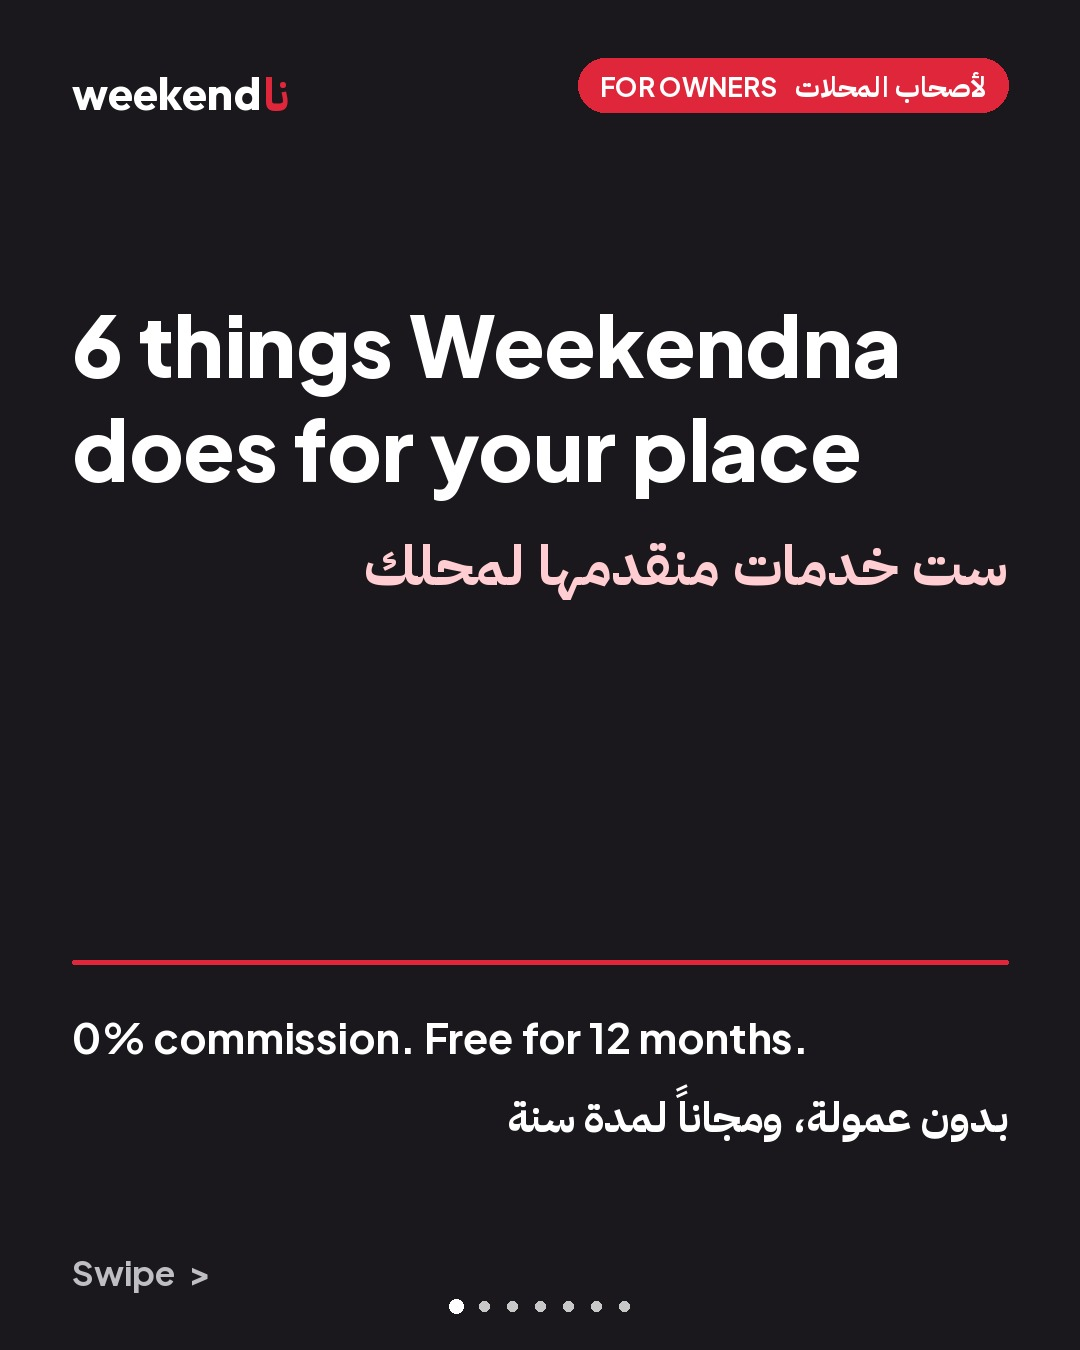
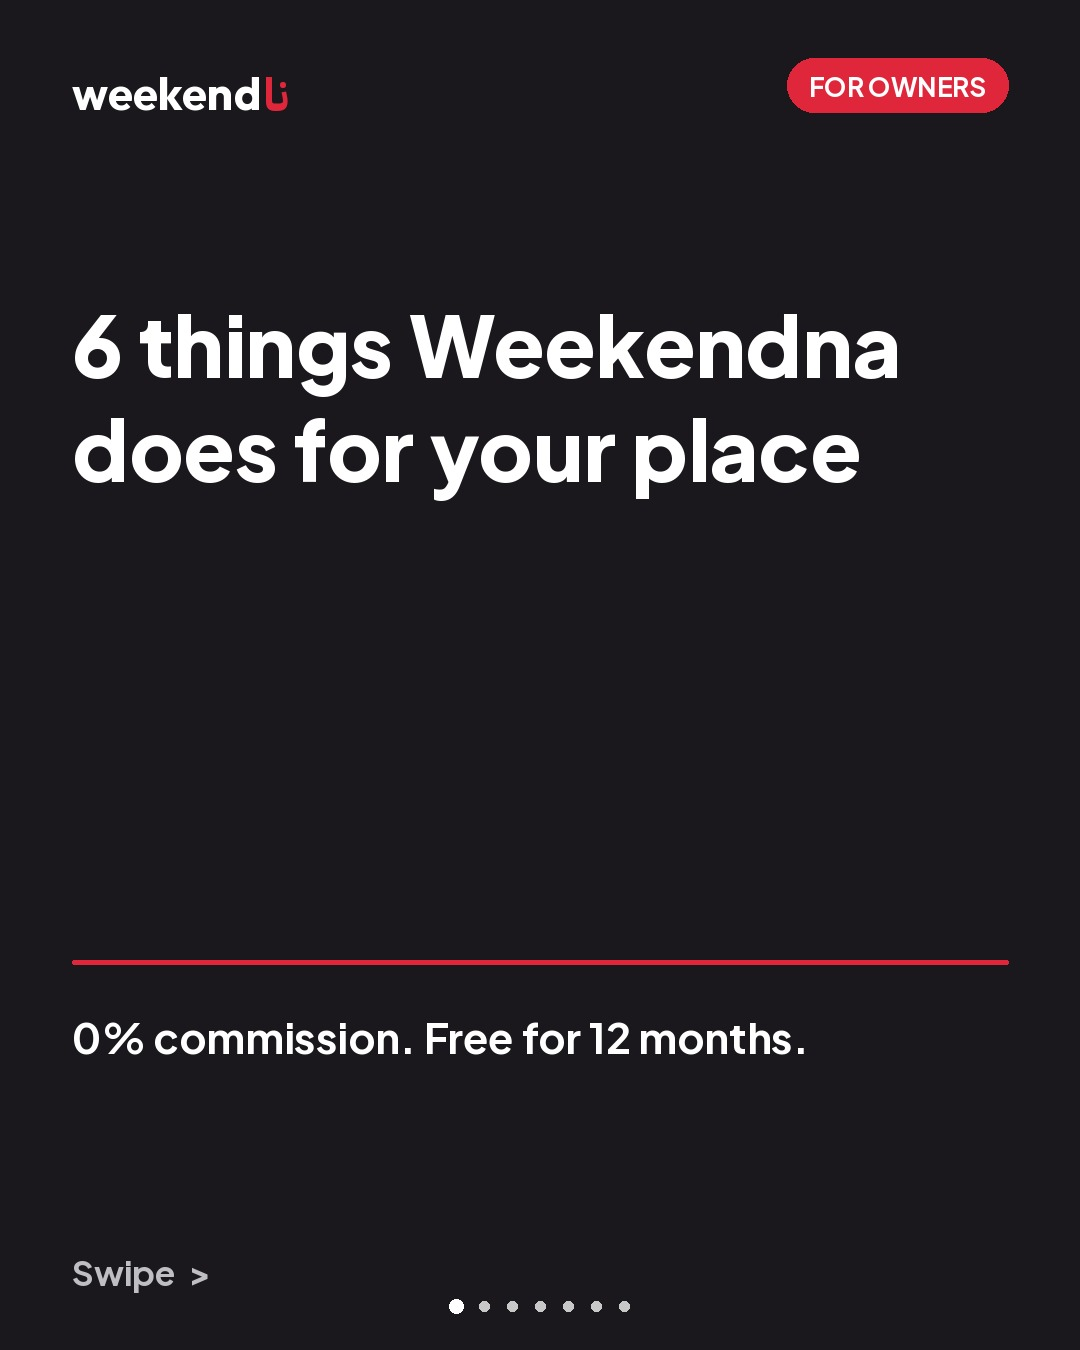
Owner report carousel; services carousel English only (not scheduled)
Claude-Session: https://claude.ai/code/session_01QuaNDiRe1Txgkiz29wZCBD

Changed region(s): [[0.5194, 0.0311, 0.9167, 0.0933], [0.3361, 0.4044, 0.9472, 0.4667], [0.4583, 0.8089, 0.9472, 0.84]]

diff --git a/tools/examples/make_owner_report_post.py b/tools/examples/make_owner_report_post.py
@@ -1,0 +1,204 @@
+"""Online presence report carousel for owners (English only). All figures are INVENTED and labelled SAMPLE: no real owner's data is shown.
+Writes posts/2026-11-owner-report/report-1..7.jpg (1080x1350), story.jpg (1080x1920), caption.txt.
+What the report covers (Kamel, 3 Nov 2026): price consistency across the web, Google reviews grouped by theme, website check, other online presence.
+Usage: source tools/setup.sh && python3 tools/examples/make_owner_report_post.py
+"""
+import os, sys
+sys.path.insert(0, os.path.dirname(os.path.dirname(__file__)))
+from brand import *
+
+POST = os.path.join(os.path.dirname(__file__), "..", "..", "posts", "2026-11-owner-report")
+os.makedirs(POST, exist_ok=True)
+DARK = (26, 24, 28); GREEN = (37, 160, 90); AMBER = (232, 150, 20); GREY = (130, 130, 135); LIGHT = (238, 238, 240)
+N = 7
+
+
+def wrap(d, text, font, maxw):
+    lines, cur = [], ""
+    for w in text.split():
+        t = (cur + " " + w).strip()
+        if d.textlength(t, font=font) <= maxw: cur = t
+        else: lines.append(cur); cur = w
+    if cur: lines.append(cur)
+    return lines
+
+
+def para(d, x, y, text, font, fill, maxw, lh):
+    for ln in wrap(d, text, font, maxw):
+        d.text((x, y), ln, font=font, fill=fill); y += lh
+    return y
+
+
+def save(img, n): img.save(os.path.join(POST, f"report-{n}.jpg"), quality=92)
+
+
+def base(bg, logo_color=WHITE, accent=None, tagbg=RED, tagfg=WHITE):
+    img = Image.new("RGB", (W, H), bg); d = ImageDraw.Draw(img)
+    logo(d, M, 64, color=logo_color, accent=accent)
+    f = jak(700, 26); t = "FOR OWNERS"; w1 = d.textlength(t, font=f); x0 = W - M - w1 - 44
+    d.rounded_rectangle((x0, 58, W - M, 112), radius=27, fill=tagbg); d.text((x0 + 22, 70), t, font=f, fill=tagfg)
+    return img, d
+
+
+def sample(d, y=430, x=M):
+    t = "SAMPLE · NOT A REAL PLACE"; f = jak(700, 20); w = d.textlength(t, font=f)
+    d.rounded_rectangle((x, y, x + w + 40, y + 44), radius=22, fill=INK); d.text((x + 20, y + 11), t, font=f, fill=WHITE)
+
+
+def chip(d, x, y, text, bg, fg=WHITE, f=None):
+    f = f or jak(800, 24); w = d.textlength(text, font=f)
+    d.rounded_rectangle((x, y, x + w + 36, y + 46), radius=23, fill=bg); d.text((x + 18, y + 10), text, font=f, fill=fg)
+    return x + w + 36
+
+
+def title(d, a, b, colb=RED, cola=INK, y=170):
+    d.text((M, y), a, font=jak(800, 72), fill=cola); d.text((M, y + 86), b, font=jak(800, 72), fill=colb)
+
+
+# ---------- 1. Hook ----------
+img, d = base(DARK)
+y = 260
+y = para(d, M, y, "Is your place easy to trust online?", jak(800, 90), WHITE, W - 2 * M, 112)
+y += 30
+y = para(d, M, y, "We check how guests see you across the web and send you a private report.", jak(500, 42), (210, 210, 215), W - 2 * M, 60)
+d.rounded_rectangle((M, 900, W - M, 904), radius=2, fill=RED)
+for i, t in enumerate(["Your prices, compared across the web", "Your Google reviews, grouped", "Your website, checked", "Your other online presence"]):
+    d.ellipse((M, 950 + i * 62 + 12, M + 18, 950 + i * 62 + 30), fill=RED)
+    d.text((M + 40, 950 + i * 62), t, font=jak(700, 36), fill=WHITE)
+d.text((M, H - 100), "Swipe  >", font=jak(700, 34), fill=(190, 190, 195))
+dots(d, N, 0); save(img, 1)
+
+# ---------- 2. Price consistency ----------
+img, d = base(SOFT, logo_color=INK)
+d.text((M, 150), "CHECK 1/4", font=jak(800, 34), fill=RED)
+title(d, "Are your prices", "the same everywhere?", y=205)
+sample(d, 400)
+d.rounded_rectangle((M, 470, W - M, 1000), radius=36, fill=WHITE)
+d.text((M + 40, 495), "Same dates, same room", font=jak(700, 30), fill=GREY)
+rows = [("Your website", "$120", GREEN, "Match"), ("Booking site A", "$120", GREEN, "Match"), ("Booking site B", "$135", AMBER, "Differs"), ("Travel site C", "Not listed", GREY, "Missing")]
+yy = 560
+for name, price, col, status in rows:
+    d.rounded_rectangle((M + 30, yy, W - M - 30, yy + 90), radius=24, fill=SOFT)
+    d.text((M + 60, yy + 26), name, font=jak(700, 32), fill=INK)
+    d.text((M + 480, yy + 26), price, font=jak(800, 32), fill=INK)
+    chip(d, W - M - 30 - 30 - d.textlength(status, font=jak(800, 24)) - 36, yy + 22, status, col)
+    yy += 108
+para(d, M, 1045, "We compare your prices on your website and the booking sites, and flag where they don't match. Guests lose trust when numbers differ.", jak(500, 34), INK, W - 2 * M, 48)
+dots(d, N, 1, color=RED); save(img, 2)
+
+# ---------- 3. Google reviews grouped ----------
+img, d = base(WHITE, logo_color=INK)
+d.text((M, 150), "CHECK 2/4", font=jak(800, 34), fill=RED)
+title(d, "Your Google reviews,", "grouped by theme", y=205)
+sample(d, 400)
+d.rounded_rectangle((M, 470, W - M, 1000), radius=36, fill=SOFT)
+d.text((M + 40, 495), "4.2", font=jak(800, 80), fill=INK)
+d.text((M + 230, 510), "Google rating", font=jak(700, 30), fill=INK)
+d.text((M + 230, 553), "example, 180 reviews", font=jak(500, 26), fill=GREY)
+themes = [("Cleanliness", 0.86, GREEN, "Praised"), ("View", 0.74, GREEN, "Praised"), ("Host and staff", 0.62, GREEN, "Praised"), ("Parking", 0.34, AMBER, "Mixed"), ("Wi-Fi", 0.22, RED, "Complaints")]
+yy = 640
+for name, frac, col, lab in themes:
+    d.text((M + 40, yy), name, font=jak(700, 28), fill=INK)
+    d.text((W - M - 40 - d.textlength(lab, font=jak(700, 26)), yy + 2), lab, font=jak(700, 26), fill=col)
+    d.rounded_rectangle((M + 40, yy + 42, W - M - 40, yy + 58), radius=8, fill=LIGHT)
+    d.rounded_rectangle((M + 40, yy + 42, M + 40 + (W - 2 * M - 80) * frac, yy + 58), radius=8, fill=col)
+    yy += 72
+para(d, M, 1045, "We read your Google reviews and group them: what guests love, and what keeps coming up as a problem.", jak(500, 34), INK, W - 2 * M, 48)
+dots(d, N, 2, color=RED); save(img, 3)
+
+# ---------- 4. Website check ----------
+img, d = base(DARK)
+d.text((M, 150), "CHECK 3/4", font=jak(800, 34), fill=RED)
+title(d, "Is your website", "bringing in bookings?", cola=WHITE, y=205)
+sample(d, 400, )
+d.rounded_rectangle((M, 470, W - M, 1000), radius=36, fill=(40, 38, 44))
+checks = [("Works well on a phone", True), ("Clear way to book or ask for dates", True), ("Prices shown", False), ("Contact details easy to find", True), ("Photos load fast", False)]
+yy = 510
+for t, ok in checks:
+    col = GREEN if ok else RED
+    d.ellipse((M + 40, yy, M + 40 + 56, yy + 56), fill=col)
+    if ok: d.line([(M + 40 + 15, yy + 29), (M + 40 + 25, yy + 40), (M + 40 + 42, yy + 18)], fill=WHITE, width=7, joint="curve")
+    else: d.text((M + 40 + 28 - d.textlength("!", font=jak(800, 32)) / 2, yy + 8), "!", font=jak(800, 32), fill=WHITE)
+    d.text((M + 120, yy + 8), t, font=jak(700, 32), fill=WHITE)
+    d.text((W - M - 40 - d.textlength("OK" if ok else "Fix", font=jak(800, 28)), yy + 10), "OK" if ok else "Fix", font=jak(800, 28), fill=col)
+    yy += 94
+para(d, M, 1045, "We look at your website the way a guest does, and list what to fix first.", jak(500, 36), WHITE, W - 2 * M, 52)
+dots(d, N, 3); save(img, 4)
+
+# ---------- 5. Other online presence ----------
+img, d = base(SOFT, logo_color=INK)
+d.text((M, 150), "CHECK 4/4", font=jak(800, 34), fill=RED)
+title(d, "Everywhere else", "guests find you", y=205)
+sample(d, 400)
+d.rounded_rectangle((M, 470, W - M, 1000), radius=36, fill=WHITE)
+places = [("Google Maps listing", "Complete", GREEN), ("Instagram", "Active", GREEN), ("Facebook page", "Out of date", AMBER), ("Booking sites", "2 found", GREEN), ("Travel and review sites", "Not found", GREY)]
+yy = 505
+for name, st, col in places:
+    d.text((M + 40, yy + 12), name, font=jak(700, 32), fill=INK)
+    chip(d, W - M - 40 - d.textlength(st, font=jak(800, 24)) - 36, yy + 6, st, col)
+    d.rounded_rectangle((M + 40, yy + 78, W - M - 40, yy + 80), radius=1, fill=LIGHT)
+    yy += 94
+para(d, M, 1045, "Maps, social pages, booking sites and review sites: we check that your name, photos, phone number and details are right and match.", jak(500, 34), INK, W - 2 * M, 48)
+dots(d, N, 4, color=RED); save(img, 5)
+
+# ---------- 6. What you get ----------
+img, d = base(WHITE, logo_color=INK)
+title(d, "What you get", "in your report", y=170)
+d.rounded_rectangle((M, 400, W - M, 920), radius=36, fill=SOFT)
+items = [("1", "A private page for your place only", RED), ("2", "What to fix first, in order", RED), ("3", "Clear findings, no guesses", RED)]
+yy = 440
+for n, t, col in items:
+    d.ellipse((M + 40, yy, M + 40 + 72, yy + 72), fill=col)
+    d.text((M + 40 + 36 - d.textlength(n, font=jak(800, 40)) / 2, yy + 12), n, font=jak(800, 40), fill=WHITE)
+    d.text((M + 140, yy + 16), t, font=jak(700, 34), fill=INK)
+    yy += 150
+para(d, M, 970, "A detailed monthly report is available if you want to keep track of your progress.", jak(500, 36), INK, W - 2 * M, 52)
+para(d, M, 1120, "The pages in this post are a sample with example figures. Your report uses your own place.", jak(500, 28), GREY, W - 2 * M, 40)
+dots(d, N, 5, color=RED); save(img, 6)
+
+# ---------- 7. CTA ----------
+img, d = base(RED, accent=INK, tagbg=WHITE, tagfg=RED)
+y = 260
+y = para(d, M, y, "Want to see how your place looks online?", jak(800, 84), WHITE, W - 2 * M, 104)
+y += 30
+y = para(d, M, y, "Message us and we'll prepare your report.", jak(600, 44), (255, 225, 228), W - 2 * M, 62)
+d.rounded_rectangle((M, 820, W - M, 1000), radius=36, fill=WHITE)
+d.text((M + 44, 850), "For owners on Weekendna", font=jak(800, 40), fill=INK)
+d.text((M + 44, 912), "0% commission, free for the first 12 months", font=jak(600, 30), fill=RED)
+button(d, 1120, "Message @weekendna.lb", bg=INK)
+dots(d, N, 6); save(img, 7)
+
+# ---------- Story ----------
+SW, SH = 1080, 1920
+img = Image.new("RGB", (SW, SH), RED); d = ImageDraw.Draw(img); logo(d, 72, 150, size=56, accent=INK)
+y = 560
+y = para(d, 72, y, "Is your place easy to trust online?", jak(800, 90), WHITE, SW - 144, 110)
+y += 30
+for t in ["Prices compared across the web", "Google reviews, grouped", "Website check", "Your other online presence"]:
+    d.text((72, y), "•  " + t, font=jak(700, 42), fill=WHITE); y += 66
+y += 20
+d.text((72, y), "Owners: message us for your report", font=jak(600, 36), fill=(255, 225, 228))
+d.rounded_rectangle((72, 1540, SW - 72, 1636), radius=48, fill=WHITE)
+t = "Message us"; f = jak(800, 40); d.text(((SW - d.textlength(t, font=f)) / 2, 1562), t, font=f, fill=RED)
+u = "@weekendna.lb"; fu = jak(600, 34); d.text(((SW - d.textlength(u, font=fu)) / 2, 1680), u, font=fu, fill=WHITE)
+img.save(os.path.join(POST, "story.jpg"), quality=92)
+
+cap = """Is your place easy to trust online? 🔍
+
+For owners on Weekendna, we check how guests see your place across the web and send you a private report:
+
+1⃣ Prices: compared across your website and booking sites, with mismatches flagged
+2⃣ Google reviews: grouped by theme, so you see what guests love and what keeps coming up
+3⃣ Your website: checked the way a guest uses it, with a list of what to fix first
+4⃣ Everything else: Google Maps, social pages, booking and review sites
+
+The pages in this post are a sample with example figures. A detailed monthly report is available too.
+
+💬 Want your report? Message @weekendna.lb.
+
+👉 Follow @weekendna.lb so you don't miss the next one 🏡
+
+#weekendna #lebanon #chaletowners #lebanonhospitality #guesthouse #villalebanon
+"""
+open(os.path.join(POST, "caption.txt"), "w").write(cap)
+print("ok")

diff --git a/tools/examples/make_owner_services.py b/tools/examples/make_owner_services.py
@@ -39,13 +39,11 @@ def para(d, x, y, text, font, fill, maxw, lh, rtl=False, xr=None):
 def save(img, n): img.save(os.path.join(POST, f"services-{n}.jpg"), quality=92)
 
 
-def tag(d, text_en, text_ar, bg=RED, fg=WHITE):
-    f = jak(700, 26); fa = ar(700, 28)
-    w1 = d.textlength(text_en, font=f); w2 = d.textlength(text_ar, font=fa, direction="rtl")
-    x0 = W - M - (w1 + 18 + w2) - 44
+def tag(d, text_en, text_ar=None, bg=RED, fg=WHITE):
+    f = jak(700, 26); w1 = d.textlength(text_en, font=f)
+    x0 = W - M - w1 - 44
     d.rounded_rectangle((x0, 58, W - M, 112), radius=27, fill=bg)
     d.text((x0 + 22, 70), text_en, font=f, fill=fg)
-    d.text((x0 + 22 + w1 + 18, 66), text_ar, font=fa, fill=fg, direction="rtl")
 
 
 def step(d, n, color=RED):
@@ -56,7 +54,7 @@ def step(d, n, color=RED):
 
 def base(bg, logo_color=WHITE, accent=None):
     img = Image.new("RGB", (W, H), bg); d = ImageDraw.Draw(img)
-    logo(d, M, 64, color=logo_color, accent=accent); tag(d, "FOR OWNERS", "لأصحاب المحلات")
+    logo(d, M, 64, color=logo_color, accent=accent); tag(d, "FOR OWNERS")
     return img, d
 
 
@@ -65,10 +63,8 @@ img, d = base(DARK)
 y = 290
 y = para(d, M, y, "6 things Weekendna does for your place", jak(800, 84), WHITE, W - 2 * M, 104)
 y += 26
-para(d, 0, y, "ست خدمات منقدمها لمحلك", ar(700, 56), (255, 205, 210), W - 2 * M, 84, rtl=True, xr=W - M)
 d.rounded_rectangle((M, 960, W - M, 964), radius=2, fill=RED)
 d.text((M, 1010), "0% commission. Free for 12 months.", font=jak(700, 42), fill=WHITE)
-rtext(d, W - M, 1086, "بدون عمولة، ومجاناً لمدة سنة", ar(700, 42), WHITE)
 d.text((M, H - 100), "Swipe  >", font=jak(700, 34), fill=(190, 190, 195))
 dots(d, N, 0); save(img, 1)
 
@@ -92,7 +88,6 @@ for n in range(1, 31):
     else: col = INK
     s = str(n); d.text((x + colw / 2 - d.textlength(s, font=f) / 2, y + 14), s, font=f, fill=col)
 para(d, M, 1000, "Guests pick their dates and see your prices before they write to you. Your link goes in your Instagram bio.", jak(500, 34), INK, W - 2 * M, 48)
-para(d, 0, 1150, "صفحة خاصة بمحلك فيها تقويم وأسعار، ولينكها بتحطه عالبايو", ar(600, 36), INK, W - 2 * M, 58, rtl=True, xr=W - M)
 dots(d, N, 1, color=RED); save(img, 2)
 
 # ---------- 3. Ready request on WhatsApp ----------
@@ -110,22 +105,19 @@ d.text((bub[0] + 161 - d.textlength("Confirm", font=jak(800, 30)) / 2, 763), "Co
 d.rounded_rectangle((bub[0] + 310, 745, bub[0] + 560, 819), radius=37, fill=(238, 238, 240))
 d.text((bub[0] + 435 - d.textlength("Decline", font=jak(800, 30)) / 2, 763), "Decline", font=jak(800, 30), fill=(90, 90, 95))
 para(d, M, 950, "You get the dates, the number of guests and their number. You confirm or decline, and agree the deposit directly with the guest.", jak(500, 34), INK, W - 2 * M, 48)
-para(d, 0, 1140, "بيوصلك التاريخ وعدد الضيوف ورقمن، إنت بتأكّد أو بترفض، وبتتفق معن عالعربون مباشرة", ar(600, 36), INK, W - 2 * M, 58, rtl=True, xr=W - M)
 dots(d, N, 2, color=RED); save(img, 3)
 
 # ---------- 4. Free monthly content kit ----------
 img, d = base(DARK); step(d, 3)
 d.text((M, 205), "A free content kit", font=jak(800, 76), fill=WHITE)
 d.text((M, 295), "every month", font=jak(800, 76), fill=RED)
-items = [("Post", "منشور"), ("Story", "ستوري"), ("Reel", "ريل")]
+items = [("Post", ""), ("Story", ""), ("Reel", "")]
 x = M; bw = (W - 2 * M - 2 * 30) / 3
 for en, a in items:
     d.rounded_rectangle((x, 450, x + bw, 760), radius=32, fill=(40, 38, 44))
-    d.text((x + bw / 2 - d.textlength(en, font=jak(800, 48)) / 2, 540), en, font=jak(800, 48), fill=WHITE)
-    w2 = d.textlength(a, font=ar(700, 40), direction="rtl"); d.text((x + bw / 2 - w2 / 2, 630), a, font=ar(700, 40), fill=(255, 205, 210), direction="rtl")
+    d.text((x + bw / 2 - d.textlength(en, font=jak(800, 48)) / 2, 580), en, font=jak(800, 48), fill=WHITE)
     x += bw + 30
 para(d, M, 810, "Made from your listing, ready to share with your own followers. Something agencies charge for, included.", jak(500, 36), WHITE, W - 2 * M, 52)
-para(d, 0, 990, "كل شهر منعملك منشور وستوري وريل جاهزين تنزّلن عحسابك", ar(600, 38), WHITE, W - 2 * M, 60, rtl=True, xr=W - M)
 dots(d, N, 3); save(img, 4)
 
 # ---------- 5. Featured on @weekendna.lb ----------
@@ -141,7 +133,6 @@ d.rounded_rectangle((M + 40, 630, W - M - 40, 810), radius=24, fill=SOFT)
 d.text((M + 70, 668), "Posted as a collab:", font=jak(700, 34), fill=INK)
 d.text((M + 70, 724), "it reaches your followers too", font=jak(600, 34), fill=RED)
 para(d, M, 905, "We feature your place and add you as a collaborator, so the post shows on your profile as well.", jak(500, 36), WHITE, W - 2 * M, 52)
-para(d, 0, 1050, "منحطك مشارك بالمنشور، فبيطلع عحسابك وعحسابنا", ar(600, 38), WHITE, W - 2 * M, 60, rtl=True, xr=W - M)
 dots(d, N, 4); save(img, 5)
 
 # ---------- 6. Online presence report (SAMPLE) ----------
@@ -161,21 +152,18 @@ for k, v in rows:
     d.text((M + 64, yy + 24), k, font=jak(700, 30), fill=INK)
     d.text((W - M - 64 - d.textlength(v, font=jak(600, 28)), yy + 26), v, font=jak(600, 28), fill=RED)
     yy += 102
-para(d, M, 1050, "A private page for your place: Google rating, what guests say and what to improve online. We can send you a detailed monthly report too.", jak(500, 33), INK, W - 2 * M, 46)
-para(d, 0, 1235, "تقرير خاص بمحلك عن تقييماتك وموقعك وشو لازم تحسّن", ar(600, 34), INK, W - 2 * M, 54, rtl=True, xr=W - M)
+para(d, M, 1050, "We compare your prices across the web, group your Google reviews and check your website. A detailed monthly report is available too.", jak(500, 33), INK, W - 2 * M, 46)
 dots(d, N, 5, color=RED); save(img, 6)
 
 # ---------- 7. Terms + CTA ----------
 img, d = base(RED, accent=INK)
 ctext(d, 190, "0%", jak(800, 230), WHITE)
 ctext(d, 450, "commission", jak(800, 64), WHITE)
-ctext(d, 540, "بدون أي عمولة", ar(700, 50), WHITE, rtl=True)
 d.rounded_rectangle((M, 650, W - M, 960), radius=36, fill=WHITE)
 d.text((M + 44, 680), "Free for 12 months", font=jak(800, 46), fill=INK)
 d.text((M + 44, 750), "Then $25 per listing per month", font=jak(700, 38), fill=INK)
 d.text((M + 44, 810), "Still 0% commission", font=jak(700, 38), fill=RED)
 d.text((M + 44, 880), "Limited to the first 10 places in each region", font=jak(600, 28), fill=(110, 110, 115))
-para(d, 0, 990, "مجاناً سنة، وبعدها خمسة وعشرين دولار بالشهر لكل محل، ومن دون عمولة، لأول عشرة أماكن بكل منطقة", ar(600, 32), WHITE, W - 2 * M, 50, rtl=True, xr=W - M)
 button(d, 1170, "Message @weekendna.lb", bg=INK)
 dots(d, N, 6); save(img, 7)
 
@@ -185,7 +173,6 @@ img = Image.new("RGB", (SW, SH), RED); d = ImageDraw.Draw(img); logo(d, 72, 150,
 y = 560
 y = para(d, 72, y, "Owners: 6 things we do for your place", jak(800, 88), WHITE, SW - 144, 108)
 y += 20
-y = para(d, 0, y, "ست خدمات منقدمها لمحلك", ar(700, 60), WHITE, SW - 144, 90, rtl=True, xr=SW - 72)
 y += 40
 for t in ["Your own page + live calendar", "Ready WhatsApp requests", "Free monthly content kit", "Featured on @weekendna.lb", "Online presence report", "0% commission"]:
     d.text((72, y), "•  " + t, font=jak(700, 40), fill=WHITE); y += 62
@@ -202,25 +189,12 @@ cap = """Own a chalet, villa or guesthouse in Lebanon? Here is what Weekendna do
 2⃣ A ready request on WhatsApp: you confirm or decline
 3⃣ A free content kit every month: post, story and Reel
 4⃣ Featured on @weekendna.lb with you as collaborator
-5⃣ An online presence report: Google rating, what guests say, what to improve (the one in the post is a sample)
+5⃣ An online presence report: we compare your prices across the web, group your Google reviews and check your website (the one in the post is a sample)
 6⃣ 0% commission, free for 12 months, then $25 per listing per month. Limited to the first 10 places in each region.
 
 💬 Want your place on Weekendna? Message @weekendna.lb.
 
 👉 Follow @weekendna.lb so you don't miss the next one 🏡
-
-عندك شاليه أو فيلا أو بيت ضيافة بلبنان؟ هيدي خدمات ويكندنا لمحلك 🏡
-
-1⃣ صفحة خاصة بمحلك مع تقويم وأسعارك
-2⃣ طلب جاهز عالواتساب، إنت بتأكّد أو بترفض
-3⃣ كل شهر منعملك منشور وستوري وريل مجاناً
-4⃣ منعرضك عحسابنا ومنحطك مشارك بالمنشور
-5⃣ تقرير عن حضورك الإلكتروني: تقييم غوغل، شو بيقولوا الضيوف، وشو لازم تحسّن (يلي بالمنشور مثال)
-6⃣ بدون عمولة، مجاناً سنة، وبعدها 25 دولار بالشهر لكل محل، لأول 10 أماكن بكل منطقة.
-
-💬 بدك محلك يكون عويكندنا؟ ابعتلنا رسالة عـ@weekendna.lb.
-
-👉 تابعونا عـ@weekendna.lb، كل أسبوع محل جديد 🏡
 
 #weekendna #lebanon #lebanonchalets #lebanonhospitality #chaletowners #villalebanon #guesthouse
 """
